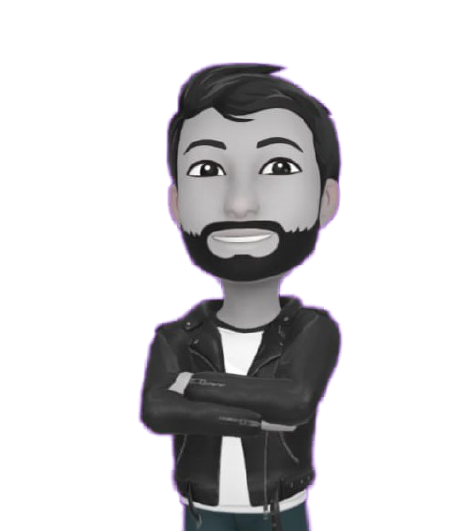
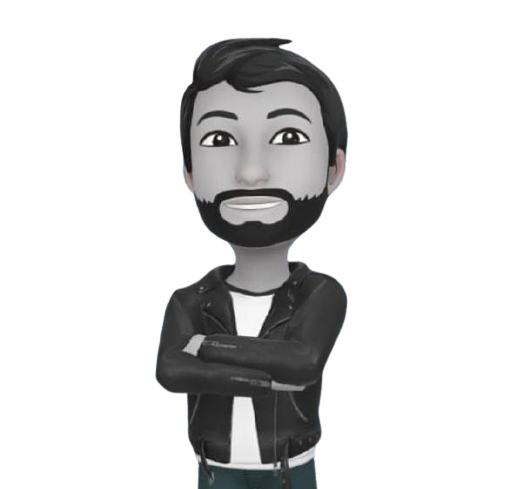
blogs and images added

Changed region(s): [[0.2681, 0.0613, 0.7447, 1.0]]

diff --git a/index.html b/index.html
@@ -4,7 +4,7 @@
     <meta charset="UTF-8">
     <meta http-equiv="X-UA-Compatible" content="IE=edge">
     <meta name="viewport" content="width=device-width, initial-scale=1.0">
-    <title>Lawanu|Web Developer</title>
+    <title>Lawanu | Web Developer</title>
     <link rel="stylesheet" href="assets/css/style.css">
     <!-- Animate CSS CDN -->
  
@@ -57,9 +57,18 @@
     <section class="projects" id="projects">
         <h1>Some of my Recent Projects</h1>
 <div class="project-list">
-        <div class="project-card"><img src="assets/images/expenseTracker.png" loading="lazy" alt=""><h1>JC Innovation Alliance</h1>Developed an innovative design website to project creativity and drive customers which provide advisory services.</div>
-        <div class="project-card"><img src="assets/images/greenyEarth.png" loading="lazy" alt=""><h1>Construction Website</h1>Developed a construction website and helped to increase sales and credibility through the website.</div>
-        <div class="project-card"><img src="assets/images/netflixClone.png" loading="lazy" alt=""><h1>Photography Website</h1>Created an effective photography portfolio website to get more clients who was featured in many articles</div>
+        <div class="project-card"><img src="assets/images/jcinnovation.png" loading="lazy" alt=""><h3 class="project-title">Innovation Website</h3><p class="project-details">Developed an innovative design website to project creativity and drive customers which provide advisory services.</p><a href="https://jcinnovators.com/" target="_blank">Check it Out</a></div>
+        <div class="project-card"><img src="assets/images/divis.png" loading="lazy" alt=""><h3 class="project-title">Construction Website</h3><p class="project-details">Developed a construction website and helped to increase sales and credibility through the website.</p><a href="http://www.divisconstructions.com/" target="_blank">Check it Out</a></div>
+        <div class="project-card"><img src="assets/images/dgphoto.png" loading="lazy" alt=""><h3 class="project-title">Photography Website</h3><p class="project-details">Created an effective photography portfolio website to get more clients who was featured in many articles.</p><a href="http://www.dimpygogoiphotography.com/" target="_blank">Check it Out</a></div>
+    </div>
+    </section>
+    <!-- Blog -->
+    <section class="projects" id="projects">
+        <h1>Some of my Recent Blogs</h1>
+<div class="project-list">
+        <div class="project-card"><img src="assets/images/execution-context.png" loading="lazy" alt=""><h3 class="project-title">How Javascript Works and Execution Context?</h3><a href="https://blog.lawanu.tech/how-javascript-works-and-execution-context" target="_blank">Check it Out</a></div>
+        <div class="project-card"><img src="assets/images/equal.png" loading="lazy" alt=""><h3 class="project-title">Difference between == and === in JavaScript. Explained!</h3><a href="https://blog.lawanu.tech/difference-between-and-in-javascript-explained" target="_blank">Check it Out</a></div>
+        <div class="project-card"><img src="assets/images/hoisting.png" loading="lazy" alt=""><h3 class="project-title">What is Hoisting in Javascript ?</h3><a href="https://blog.lawanu.tech/what-is-hoisting-in-javascript" target="_blank">Check it Out</a></div>
     </div>
     </section>
     <!-- Contact Us -->

diff --git a/assets/css/style.css b/assets/css/style.css
@@ -41,7 +41,7 @@ section
     align-items: center;
     justify-content: space-between;
     background-color:#fcfcfc ;
-    padding: 1.5rem 2rem;
+    padding: 1rem 2rem;
     font-weight: var(--bold-font);
     color: var(--primary-color);
     box-shadow: 0rem 0.5rem 1rem var(--primary-shadow);
@@ -49,6 +49,7 @@ section
 .nav-bar .logo
 {
     text-transform: uppercase;
+  
 }
 .nav-list
 {
@@ -81,7 +82,7 @@ section
 }
 .hero img
 {
-    max-width: 600px;
+    width: 40%;
 }
 .hero .short-intro
 {   padding: 0.65rem;
@@ -168,8 +169,20 @@ section
 .projects .project-card img
 { 
      margin-bottom: 0.5rem;
-     width: 65%;
-    height: 60%;
+     width: 70%;
+    height: 65%;
+}
+.projects .project-title
+{
+    margin-bottom: var(--margin-bottom);
+}
+.projects .project-details
+{
+    margin-bottom: var(--margin-bottom);
+}
+.projects a
+{
+    color: var(--primary-color);
 }
 /* Contact */
 .contact
